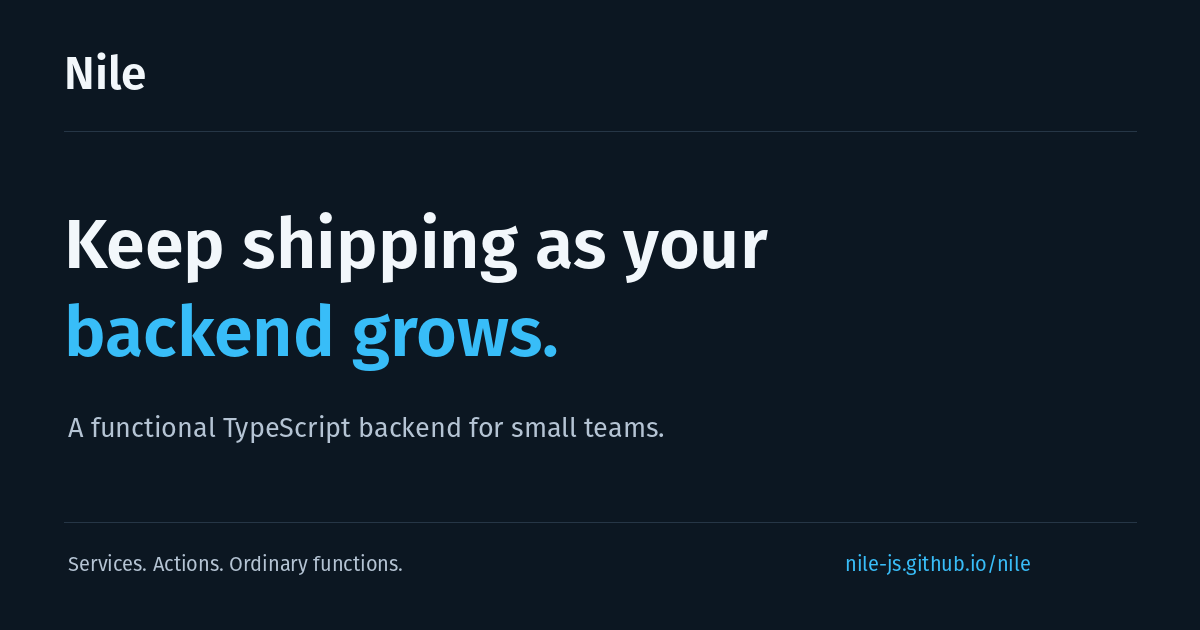
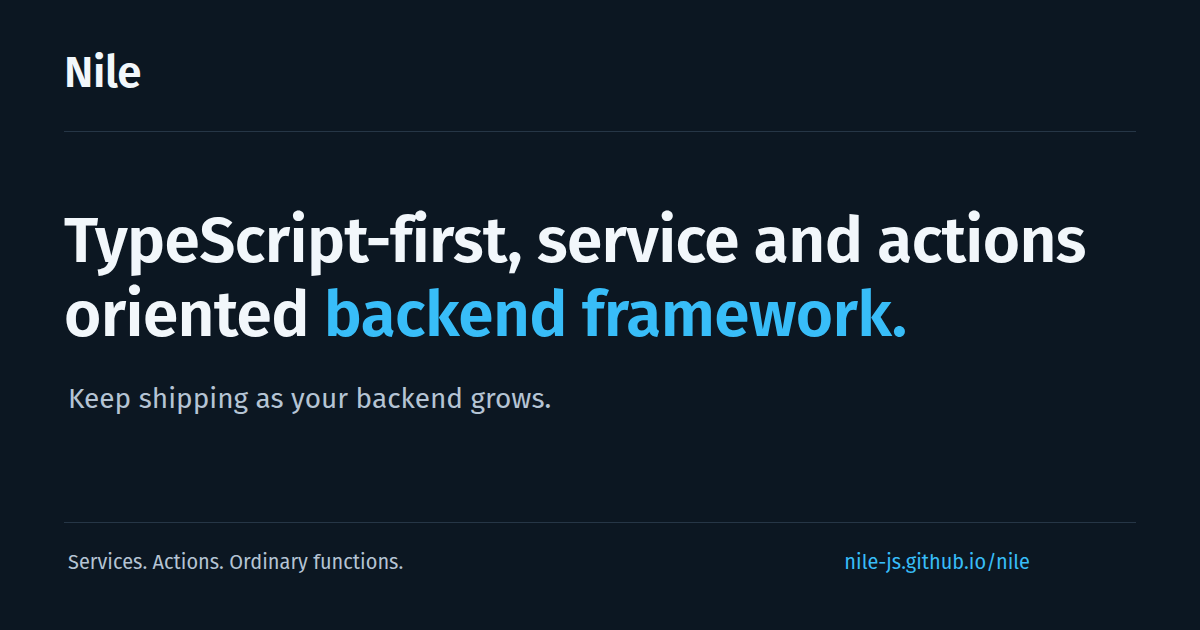
docs: lead with "TypeScript-first, service and actions oriented backend framework"
- Make the tagline the homepage hero heading, page title, meta description
  and social card image
- Open the core README and the guide index with it; tighten the root README
  introduction
- Use it as the llms.txt summary and refresh the assistant exports
- Note the tagline and voice in the website README for future copy

diff --git a/packages/web/app/lib/site.ts b/packages/web/app/lib/site.ts
@@ -8,7 +8,7 @@ export const BASE_PATH = siteLocation.basePath;
 /** Origin of the published site, used for canonical, social and sitemap URLs. */
 export const SITE_URL = siteLocation.siteUrl;
 export const SITE_DESCRIPTION =
-	"A functional TypeScript backend for small teams. Keep shipping as your backend grows with services, actions and a familiar place for every operation.";
+	"TypeScript-first, service and actions oriented backend framework. Define actions, group them into services and keep shipping as your backend grows.";
 
 /** Keep public assets, downloads and source URLs on the configured base path. */
 export function withBase(path: string): string {
@@ -33,4 +33,4 @@ export const OG_IMAGE_URL = absoluteUrl(OG_IMAGE_PATH);
 export const OG_IMAGE_WIDTH = "1200";
 export const OG_IMAGE_HEIGHT = "630";
 export const OG_IMAGE_ALT =
-	"Nile Js: Keep shipping as your backend grows. A functional TypeScript backend for small teams.";
+	"Nile Js: TypeScript-first, service and actions oriented backend framework. Keep shipping as your backend grows.";

diff --git a/packages/web/components/home/hero.css b/packages/web/components/home/hero.css
@@ -51,7 +51,15 @@
 	position: relative;
 	max-width: 640px;
 }
-.nile-hero-copy h1 span {
+/* The tagline wraps to about three balanced lines; keep "TypeScript-first," whole. */
+.nile-hero h1 {
+	font-size: clamp(40px, 4.4vw, 60px);
+	text-wrap: balance;
+}
+.nile-hero-copy .nile-nowrap {
+	white-space: nowrap;
+}
+.nile-hero-copy .nile-accent {
 	background: linear-gradient(100deg, #bae6fd, #38bdf8 55%, #60a5fa);
 	-webkit-background-clip: text;
 	background-clip: text;
@@ -229,7 +237,7 @@
 		height: 180%;
 	}
 	.nile-hero h1 {
-		font-size: clamp(36px, 10.5cqi, 54px);
+		font-size: clamp(32px, 9.5cqi, 48px);
 	}
 	.nile-home .nile-lead {
 		margin-top: 20px;

diff --git a/packages/web/components/home/hero.tsx b/packages/web/components/home/hero.tsx
@@ -30,11 +30,13 @@ export function Hero() {
 			<div className="nile-hero-inner">
 				<div className="nile-hero-copy">
 					<h1 id="hero-title">
-						Keep shipping as your <span>backend grows.</span>
+						<span className="nile-nowrap">TypeScript-first,</span> service and
+						actions oriented{" "}
+						<span className="nile-accent">backend framework.</span>
 					</h1>
 					<p className="nile-lead">
 						Services and actions give every feature a familiar home, so your
-						team keeps adding work without losing its way.
+						team keeps shipping as the backend grows.
 					</p>
 					<div className="nile-actions">
 						<a

diff --git a/packages/web/app/routes/home.tsx b/packages/web/app/routes/home.tsx
@@ -22,7 +22,8 @@ import {
 } from "../lib/site";
 import "../../docs/home.css";
 
-const HOME_TITLE = "Nile Js | Keep shipping as your backend grows";
+const HOME_TITLE =
+	"Nile Js | TypeScript-first, service and actions oriented backend framework";
 const HOME_URL = absoluteUrl("/");
 const REPOSITORY_URL = "https://github.com/nile-js/nile";
 const LICENSE_URL = `${REPOSITORY_URL}/blob/main/LICENSE`;

diff --git a/packages/web/app/root.tsx b/packages/web/app/root.tsx
@@ -69,7 +69,10 @@ export function Layout({ children }: { children: ReactNode }) {
 }
 
 export const meta: Route.MetaFunction = () => [
-	{ title: "Nile Js | Keep shipping as your backend grows" },
+	{
+		title:
+			"Nile Js | TypeScript-first, service and actions oriented backend framework",
+	},
 	{ name: "description", content: SITE_DESCRIPTION },
 ];
 

diff --git a/packages/web/app/routes/llms-index.ts b/packages/web/app/routes/llms-index.ts
@@ -13,7 +13,7 @@ export function loader() {
 		[
 			"# Nile Js",
 			"",
-			"A functional TypeScript backend for small teams.",
+			"TypeScript-first, service and actions oriented backend framework.",
 			"",
 			`Full text: ${SITE_URL}${withBase("/llms-full.txt")}`,
 			"",

diff --git a/README.md b/README.md
@@ -5,9 +5,9 @@
 
 TypeScript-first, service and actions oriented backend framework.
 
-A backend framework for small teams and agents suited for fast iteration, predicatable scaling via domain driven architecture, error handling with erros as values and data validation and depedency injection via single shared context, and open telemetry, background jobs, and global gates as builtin primitives. Nile keeps you shipping as your backend grows.
+You define actions, group them into services, and get a predictable API with validation, error handling and schema export. No route definitions, controllers or middleware chains: each business operation lives in one place your team remembers and can reason about.
 
-You define actions, group them into services, and get a predictable API with validation, error handling and schema export. No route definitions, no controllers and no middleware chains, no hard plumbing, just your business operations, each in a place your team remembers and can reason about.
+Built for small teams and coding agents that iterate fast. Services follow your business domains, so the structure scales predictably. Errors are values, input is validated before the handler runs, and dependencies come from one shared context. OpenTelemetry, background jobs and global hooks are built in, so Nile keeps you shipping as your backend grows.
 
 [Documentation](https://nile-js.github.io/nile/) · [Getting started](https://nile-js.github.io/nile/guide/start/getting-started/) · [Features](https://nile-js.github.io/nile/guide/features/) · [Examples](https://nile-js.github.io/nile/guide/examples/)
 

diff --git a/packages/nile/README.md b/packages/nile/README.md
@@ -3,9 +3,9 @@
 [![NPM Version](https://img.shields.io/npm/v/@nilejs/nile.svg)](https://www.npmjs.com/package/@nilejs/nile)
 [![License: MIT](https://img.shields.io/badge/License-MIT-yellow.svg)](https://opensource.org/licenses/MIT)
 
-A TypeScript backend framework for small teams. Keep shipping as your backend grows.
+TypeScript-first, service and actions oriented backend framework.
 
-You write actions, group them into services, and Nile Js gives you a predictable API with validation, error handling and schema export. There are no route trees, controllers or middleware chains to maintain: each business operation lives in one familiar place.
+You write actions, group them into services, and Nile Js gives you a predictable API with validation, error handling and schema export. There are no route trees, controllers or middleware chains to maintain: each business operation lives in one familiar place, so small teams keep shipping as the backend grows.
 
 [Documentation](https://nile-js.github.io/nile/) · [Getting started](https://nile-js.github.io/nile/guide/start/getting-started/) · [Features](https://nile-js.github.io/nile/guide/features/) · [Examples](https://nile-js.github.io/nile/guide/examples/)
 

diff --git a/packages/web/README.md b/packages/web/README.md
@@ -29,7 +29,7 @@ The preview serves `http://127.0.0.1:4173/nile/`, or `http://127.0.0.1:4173/` fo
 - `app/lib/source.ts` loads the Fumadocs collection. Guide bodies load on demand; the homepage does not import the guide collection.
 - `scripts/home-examples.ts` holds homepage code and copy text. `scripts/generate-home-code.ts` highlights it into `home-code-blocks.ts` during the build.
 
-Keep copy grounded in small-team outcomes and shipped behavior. In-house production accounts come from the maintainers. Use the recorded evidence for performance claims.
+Nile Js describes itself as a "TypeScript-first, service and actions oriented backend framework". Lead with that line wherever the site introduces Nile Js, in the same plain, technical voice. Keep supporting copy grounded in small-team outcomes and shipped behavior. In-house production accounts come from the maintainers. Use the recorded evidence for performance claims.
 
 ## Choose where the site is hosted
 
